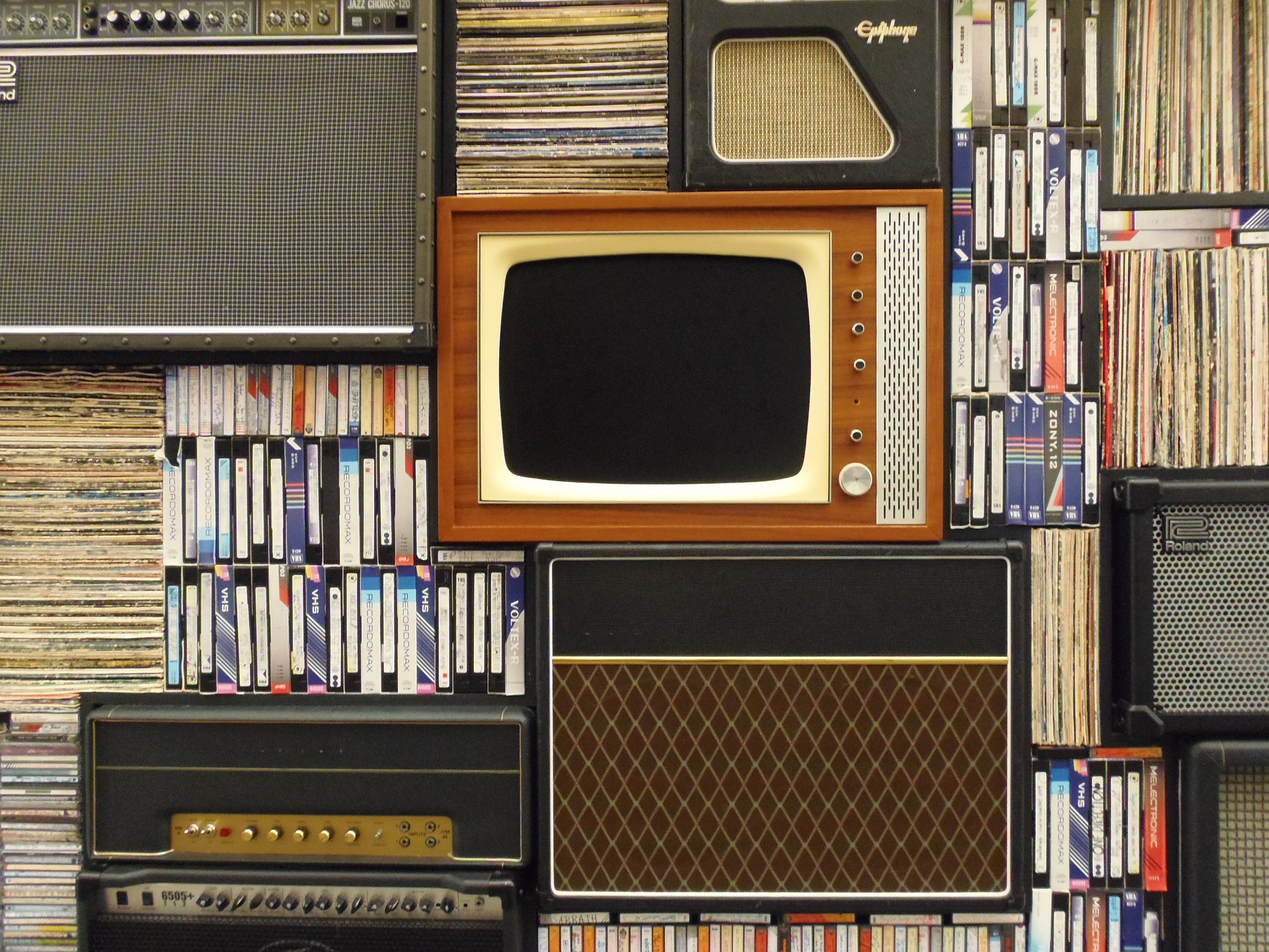
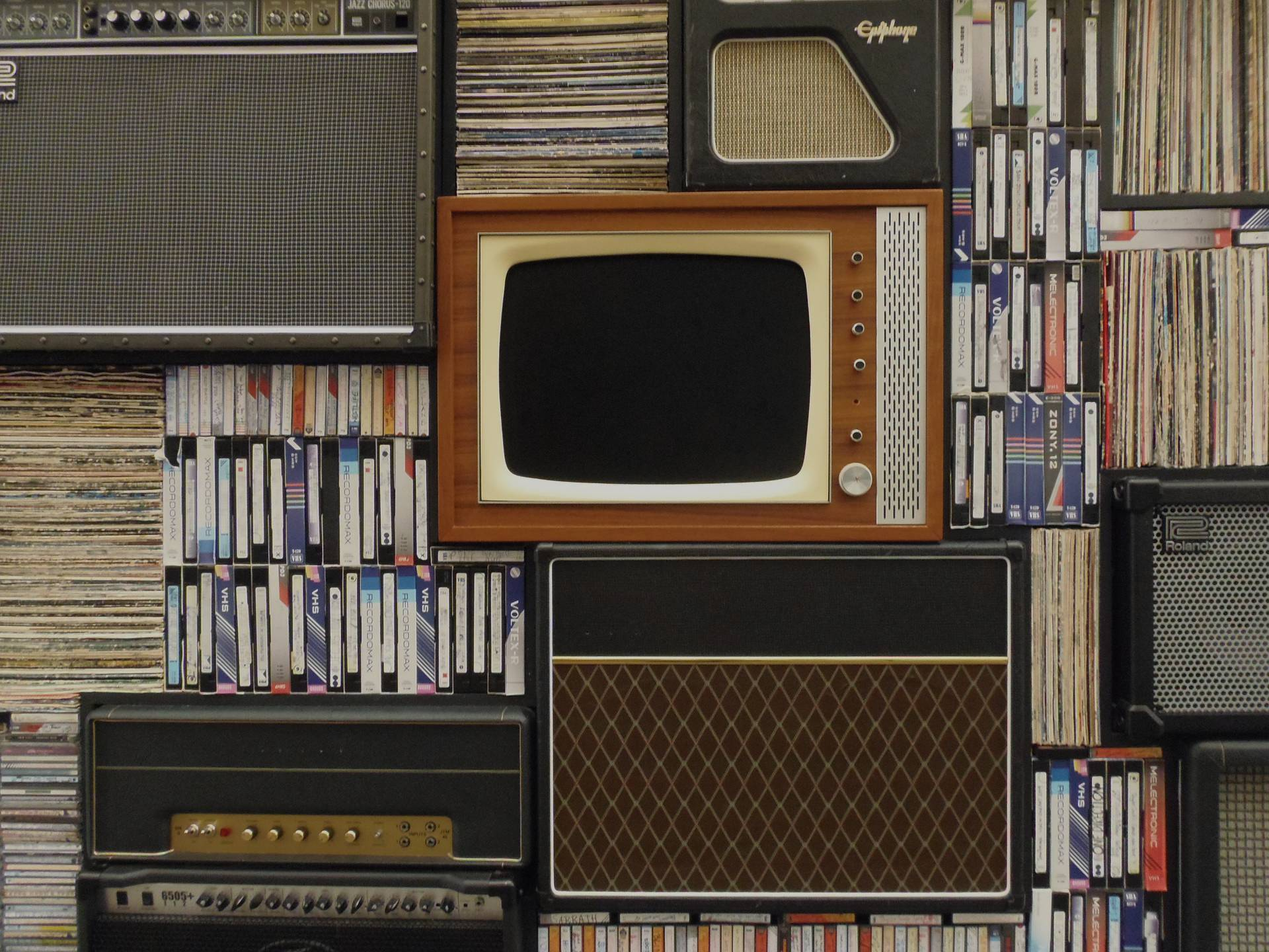
Darken work images

diff --git a/public/index.html b/public/index.html
@@ -392,37 +392,51 @@
                     <div id="anchor-toc" class="works-scroll">
                         <ul>
                             <li> <a data-scroll href="#anchor-1">
-        <i id="firstProjectPosition" class="nav-work-link selected fas fa-circle"><span class="workTitle">Anonymous proxy</span></i>
+        <i id="firstProjectPosition" class="nav-work-link selected fas fa-circle">
+          <span class="workTitle">Anonymous proxy</span>
+        </i>
       </a>
 
                             </li>
                             <li> <a data-scroll href="#anchor-2">
-        <i id="secondProjectPosition" class="nav-work-link unselected fas fa-circle"><span class="workTitle">Awesome Profile Cards</span></i>
+        <i id="secondProjectPosition" class="nav-work-link unselected fas fa-circle">
+          <span class="workTitle">Awesome Profile Cards</span>
+        </i>
       </a>
 
                             </li>
                             <li> <a data-scroll href="#anchor-3">
-        <i id="thirdProjectPosition" class="nav-work-link unselected fas fa-circle"><span class="workTitle">Dice Pig Game</span></i>
+        <i id="thirdProjectPosition" class="nav-work-link unselected fas fa-circle">
+          <span class="workTitle">Dice Pig Game</span>
+        </i>
       </a>
 
                             </li>
                             <li> <a data-scroll href="#anchor-4">
-        <i id="fourthProjectPosition" class="nav-work-link unselected fas fa-circle"><span class="workTitle">Contact us!</span></i>
+        <i id="fourthProjectPosition" class="nav-work-link unselected fas fa-circle">
+          <span class="workTitle">Contact us!</span>
+        </i>
       </a>
 
                             </li>
                             <li> <a data-scroll href="#anchor-5">
-        <i id="fifthProjectPosition" class="nav-work-link unselected fas fa-circle"><span class="workTitle">Series Around The World</span></i>
+        <i id="fifthProjectPosition" class="nav-work-link unselected fas fa-circle">
+          <span class="workTitle">Series Around The World</span>
+        </i>
       </a>
 
                             </li>
                             <li> <a data-scroll href="#anchor-6">
-        <i id="sixthProjectPosition" class="nav-work-link unselected fas fa-circle"><span class="workTitle">Rick & Morty Characters</span></i>
+        <i id="sixthProjectPosition" class="nav-work-link unselected fas fa-circle">
+          <span class="workTitle">Rick & Morty Characters</span>
+        </i>
       </a>
 
                             </li>
                             <li> <a data-scroll href="#anchor-7">
-        <i id="seventhProjectPosition" class="nav-work-link unselected fas fa-circle"><span class="workTitle">Budgety</span></i>
+        <i id="seventhProjectPosition" class="nav-work-link unselected fas fa-circle">
+          <span class="workTitle">Budgety</span>
+        </i>
       </a>
 
                             </li>
@@ -575,9 +589,8 @@
                                         target="_blank">See code</a>
 
                                     </button>
-                                </div> <a class="nextSection linkToHome" data-scroll href="#about">
-        <i id="lastProjectPosition" class="nav-work-link fas fa-angle-up"></i>
-        <h3 class="backToHome">TOP</h3>
+                                </div> <a class="nextSection linkToHome" data-scroll href="#anchor-7">
+        <i id="sixthProjectPosition" class="nav-work-link fas fa-angle-down"></i>
       </a>
 
                             </div>
@@ -601,8 +614,9 @@
                         <button class="seeMore-button"> <a id="seeCodeLink" href="https://github.com/angelabenavente/Budgety"
                             target="_blank">See code</a>
 
-                        </button> <a class="nextSection linkToHome" data-scroll href="#anchor-7">
-          <i id="sixthProjectPosition" class="nav-work-link fas fa-angle-down"></i>
+                        </button> <a class="nextSection linkToHome" data-scroll href="#about">
+          <i id="lastProjectPosition" class="nav-work-link fas fa-angle-up"></i>
+          <h3 class="backToHome">TOP</h3>
         </a>
 
                     </div>

diff --git a/_src/templates/partials/sections/_anchors.html b/_src/templates/partials/sections/_anchors.html
@@ -2,37 +2,51 @@
   <ul>
     <li>
       <a data-scroll href="#anchor-1">
-        <i id="firstProjectPosition" class="nav-work-link selected fas fa-circle"><span class="workTitle">Anonymous proxy</span></i>
+        <i id="firstProjectPosition" class="nav-work-link selected fas fa-circle">
+          <span class="workTitle">Anonymous proxy</span>
+        </i>
       </a>
     </li>
     <li>
       <a data-scroll href="#anchor-2">
-        <i id="secondProjectPosition" class="nav-work-link unselected fas fa-circle"><span class="workTitle">Awesome Profile Cards</span></i>
+        <i id="secondProjectPosition" class="nav-work-link unselected fas fa-circle">
+          <span class="workTitle">Awesome Profile Cards</span>
+        </i>
       </a>
     </li>
     <li>
       <a data-scroll href="#anchor-3">
-        <i id="thirdProjectPosition" class="nav-work-link unselected fas fa-circle"><span class="workTitle">Dice Pig Game</span></i>
+        <i id="thirdProjectPosition" class="nav-work-link unselected fas fa-circle">
+          <span class="workTitle">Dice Pig Game</span>
+        </i>
       </a>
     </li>
     <li>
       <a data-scroll href="#anchor-4">
-        <i id="fourthProjectPosition" class="nav-work-link unselected fas fa-circle"><span class="workTitle">Contact us!</span></i>
+        <i id="fourthProjectPosition" class="nav-work-link unselected fas fa-circle">
+          <span class="workTitle">Contact us!</span>
+        </i>
       </a>
     </li>
     <li>
       <a data-scroll href="#anchor-5">
-        <i id="fifthProjectPosition" class="nav-work-link unselected fas fa-circle"><span class="workTitle">Series Around The World</span></i>
+        <i id="fifthProjectPosition" class="nav-work-link unselected fas fa-circle">
+          <span class="workTitle">Series Around The World</span>
+        </i>
       </a>
     </li>
     <li>
       <a data-scroll href="#anchor-6">
-        <i id="sixthProjectPosition" class="nav-work-link unselected fas fa-circle"><span class="workTitle">Rick & Morty Characters</span></i>
+        <i id="sixthProjectPosition" class="nav-work-link unselected fas fa-circle">
+          <span class="workTitle">Rick & Morty Characters</span>
+        </i>
       </a>
     </li>
     <li>
       <a data-scroll href="#anchor-7">
-        <i id="seventhProjectPosition" class="nav-work-link unselected fas fa-circle"><span class="workTitle">Budgety</span></i>
+        <i id="seventhProjectPosition" class="nav-work-link unselected fas fa-circle">
+          <span class="workTitle">Budgety</span>
+        </i>
       </a>
     </li>
   </ul>

diff --git a/_src/templates/partials/sections/_project-7.html b/_src/templates/partials/sections/_project-7.html
@@ -13,8 +13,9 @@
         <button class="seeMore-button">
           <a id="seeCodeLink" href="https://github.com/angelabenavente/Budgety" target="_blank">See code</a>
         </button>
-        <a class="nextSection linkToHome" data-scroll href="#anchor-7">
-          <i id="sixthProjectPosition" class="nav-work-link fas fa-angle-down"></i>
+        <a class="nextSection linkToHome" data-scroll href="#about">
+          <i id="lastProjectPosition" class="nav-work-link fas fa-angle-up"></i>
+          <h3 class="backToHome">TOP</h3>
         </a>
     </div>
   </div>

diff --git a/_src/templates/partials/sections/_project-6.html b/_src/templates/partials/sections/_project-6.html
@@ -14,9 +14,8 @@
           <a id="seeCodeLink" href="https://github.com/angelabenavente/RickyMortyCharacters" target="_blank">See code</a>
         </button>
       </div>
-      <a class="nextSection linkToHome" data-scroll href="#about">
-        <i id="lastProjectPosition" class="nav-work-link fas fa-angle-up"></i>
-        <h3 class="backToHome">TOP</h3>
+      <a class="nextSection linkToHome" data-scroll href="#anchor-7">
+        <i id="sixthProjectPosition" class="nav-work-link fas fa-angle-down"></i>
       </a>
       </div>
     </div>

diff --git a/_src/templates/partials/_main.html b/_src/templates/partials/_main.html
@@ -1,7 +1,7 @@
 <main class="main">
  
   <section id="work" class="main__work">
-      <partial src="./_about.html" label="About Section"></partial>
+    <partial src="./_about.html" label="About Section"></partial>
     <partial src="./sections/_anchors.html" label="Anchors"></partial>
     <partial src="./sections/_project-1.html" label="Project 1"></partial>
     <partial src="./sections/_project-2.html" label="Project 2"></partial>
